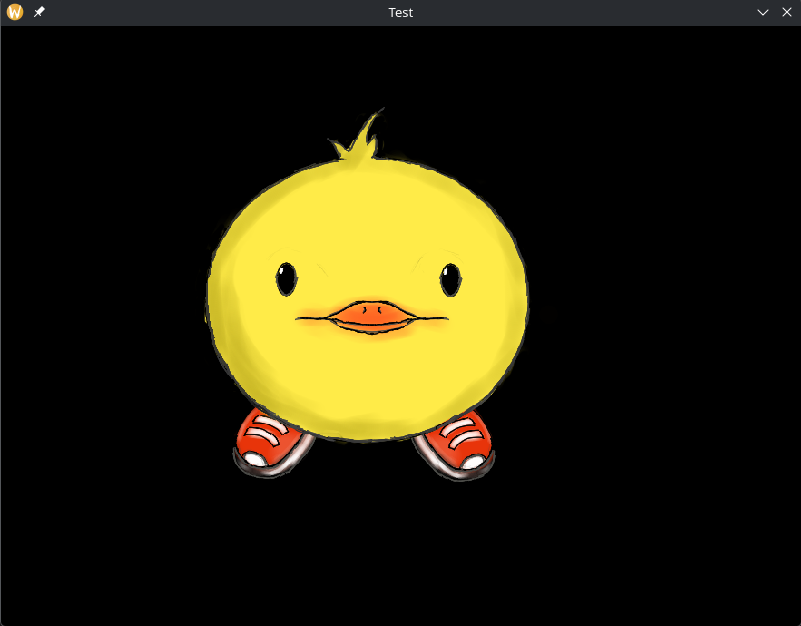
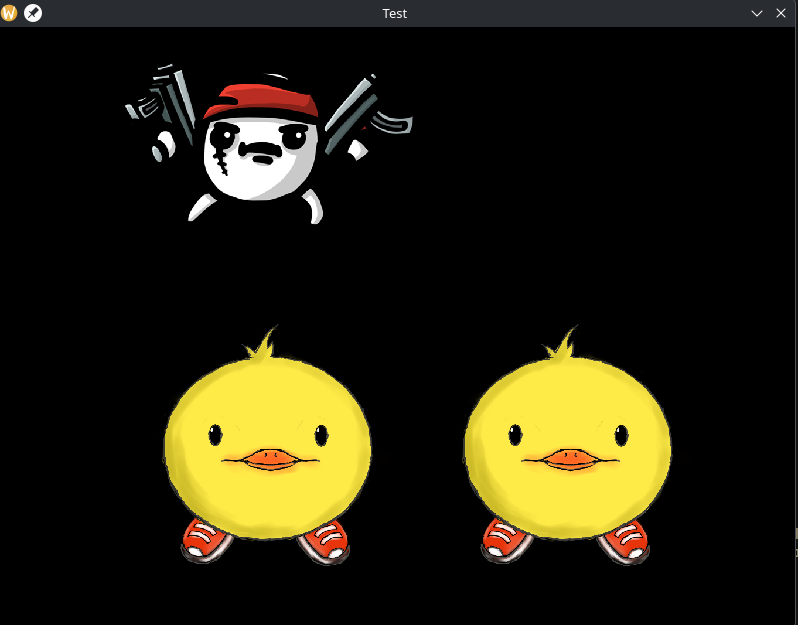
added atlas

diff --git a/src/atlas.c b/src/atlas.c
@@ -1,0 +1,45 @@
+#include "atlas.h"
+#include <stdlib.h>
+
+atlas_t* create_atlas(int width, int height, int channels)
+{
+	atlas_t* atlas = malloc(sizeof(atlas_t));
+
+	atlas->width = width;
+	atlas->height = height;
+	atlas->channels = channels;
+
+	atlas->data = malloc(sizeof(unsigned char) * width * height * channels);
+
+	for(unsigned int i = 0; i < width * height; i++)
+	{
+		atlas->data[i] = 0;
+	}
+
+	atlas->cursor_x = 0;
+	atlas->cursor_y = 0;
+
+	atlas->row_height = 0;
+
+	return atlas;
+}
+void atlas_add_image(atlas_t* atlas, image_t* img)
+{
+	bool no_enough_space = (atlas->cursor_x + img->width > atlas->width &&
+	                        atlas->cursor_y + img->height > atlas->height);
+
+	if (img->is_loaded == false || no_enough_space )
+	{
+		return;
+	}
+
+	if (atlas->row_height == 0)
+	{
+		atlas->row_height = img->height;
+	}
+
+	if (img->height > atlas->row_height)
+	{
+		atlas->cursor_x = 0;
+	}
+}

diff --git a/include/atlas.h b/include/atlas.h
@@ -1,0 +1,22 @@
+#ifndef ATLAS_H
+#define ATLAS_H
+
+#include "image.h"
+
+typedef struct atlas {
+
+	int id;
+	int width;
+	int height;
+	int channels;
+	unsigned int cursor_x;
+	unsigned int cursor_y;
+	unsigned int row_height;
+	unsigned char* data;
+
+} atlas_t;
+
+atlas_t* create_atlas(int width, int height, int channels);
+void atlas_add_image(atlas_t* atlas, image_t* img);
+
+#endif // ATLAS_H

diff --git a/include/debug.h b/include/debug.h
@@ -2,14 +2,12 @@
 #define DEBUG_H
 
 #include "glad/glad.h"
-#include <stdio.h>
 
 #define GL_CALL(x) \
 	x; \
 	check_gl_error(#x, __FILE__, __LINE__);
 
-void check_gl_error(char* expr, char* file, int line);
-
 void init_debug();
+void check_gl_error(char* expr, char* file, int line);
 
 #endif // DEBUG_H

diff --git a/src/graphics.c b/src/graphics.c
@@ -34,6 +34,7 @@ void init_shaders()
 
 	create_shader_program(&shader_program, shaders, 2);
 }
+
 void init_graphics()
 {
 	init_debug();

diff --git a/src/debug.c b/src/debug.c
@@ -1,4 +1,5 @@
 #include "debug.h"
+#include <stdio.h>
 
 void check_gl_error(char* expr, char* file, int line)
 {
